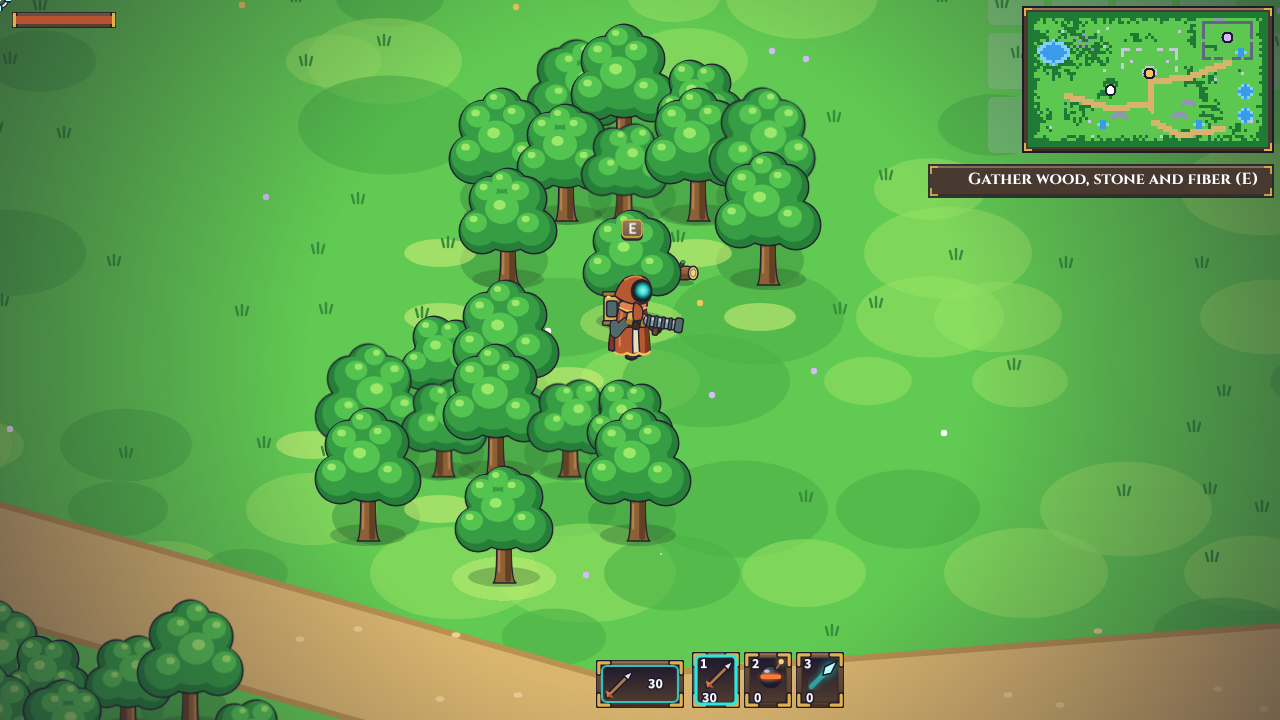
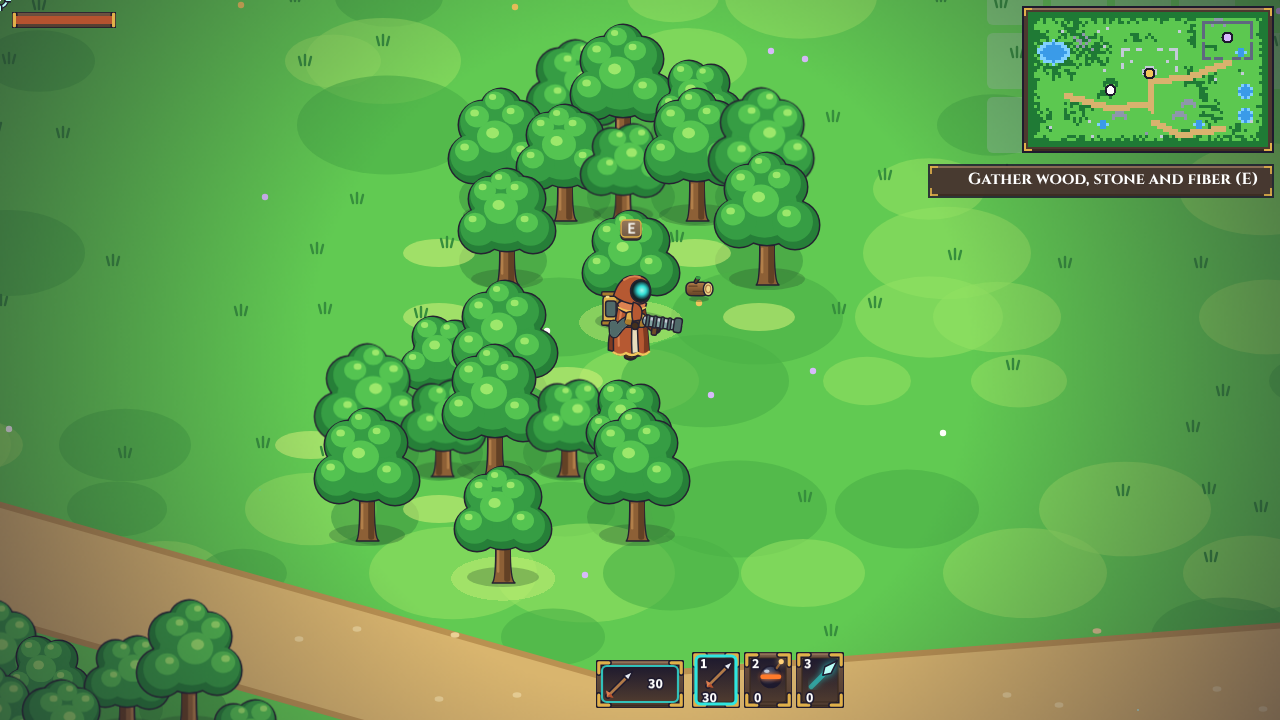
021: review follow-ups
Harvest lays its drop through layItem; shake log cap documented and field
moved; slide depth explained; the mid-slide screenshot freezes the tween once
ui().slideProgress passes 0.35 instead of waiting a fixed time; 03a retaken with
the log further from the trunk.

Claude-Session: https://claude.ai/code/session_019emckfuk4AmLgqPgaDD5WF

diff --git a/src/render/GroundItemView.ts b/src/render/GroundItemView.ts
@@ -17,8 +17,9 @@ export class GroundItemView {
   private readonly scene: Scene;
   /** Where the player stands now, followed by items sliding in. */
   private player = { x: 0, y: 0 };
-  /** Picked-up items still sliding in (for the test hook). */
+  /** Picked-up items still sliding in, and how far in the furthest one is (0 to 1) (for the test hook). */
   sliding = 0;
+  slideProgress = 0;
 
   constructor(scene: Scene) {
     this.scene = scene;
@@ -52,6 +53,8 @@ export class GroundItemView {
   /** Slides an item's image into the player (who may still be moving), shrinking, then removes it. */
   private slide(image: GameObjects.Image): void {
     const from = { x: image.x, y: image.y, scale: image.scaleX };
+    // Over everything standing in the world (the tree it lay behind), just under the pickup sparkle and
+    // particles at worldUi - 1 and the "+1" popup at worldUi.
     image.setDepth(DEPTHS.worldUi - 2);
     this.sliding += 1;
     this.scene.tweens.addCounter({
@@ -61,12 +64,14 @@ export class GroundItemView {
       ease: 'Quad.In',
       onUpdate: (tween) => {
         const t = tween.getValue() ?? 1;
+        this.slideProgress = t;
         const to = { x: this.player.x, y: this.player.y + GROUND_ITEM_LIFT };
         image.setPosition(from.x + (to.x - from.x) * t, from.y + (to.y - from.y) * t);
         image.setScale(from.scale * (1 + (PICKUP_SLIDE.endScale - 1) * t));
       },
       onComplete: () => {
         this.sliding -= 1;
+        if (this.sliding === 0) this.slideProgress = 0;
         image.destroy();
       },
     });

diff --git a/tests/e2e/playtestFixes.spec.ts b/tests/e2e/playtestFixes.spec.ts
@@ -111,7 +111,7 @@ test.describe('review screenshots (021)', () => {
       const n = g?.getState().nodes.find((node) => node.nodeId === 'tree' && node.room === 'overworld');
       if (!g || !h || !n) throw new Error('no game or tree');
       h.walkTo(n.x, n.y + 16);
-      g.drop('wood', n.x + 26, n.y - half - 12);
+      g.drop('wood', n.x + 34, n.y - half - 4);
       return { x: n.x, y: n.y };
     }, nodeDef('tree').feetBox.h / 2);
     // The log lying behind the tree, before the tick that picks it up (for the picture only).
@@ -124,8 +124,9 @@ test.describe('review screenshots (021)', () => {
     expect(s?.events.pickups.map((p) => p.itemId)).toEqual(['wood']);
     expect(s?.player.y).toBeGreaterThan(tree.y);
     await expect.poll(async () => (await ui(page))?.sliding).toBeGreaterThan(0);
-    // Partway in (the slide is slowed 25×), for the picture only.
-    await page.waitForTimeout(2200);
+    // Freeze it partway in (the slide is slowed 25× until then).
+    await expect.poll(async () => (await ui(page))?.slideProgress ?? 0).toBeGreaterThan(0.35);
+    await page.evaluate(() => window.__GAME__?.tweenSpeed(0));
     await page.screenshot({ path: `${SHOTS}/03b-log-sliding-in.png` });
     await page.evaluate(() => window.__GAME__?.tweenSpeed(1));
     await expect.poll(async () => (await ui(page))?.sliding).toBe(0);

diff --git a/src/render/JuiceView.ts b/src/render/JuiceView.ts
@@ -15,7 +15,7 @@ export type ShakeSize = keyof typeof SHAKE;
 
 const SHAKE_ORDER: readonly ShakeSize[] = ['small', 'medium', 'big'];
 
-/** How many recent shakes the log keeps. */
+/** How many recent shakes the log keeps: a cap on a debug-only log the test hook reads (021), not tuning. */
 const SHAKE_LOG_MAX = 50;
 
 export class JuiceView {
@@ -27,6 +27,8 @@ export class JuiceView {
   private shaking: { size: ShakeSize; until: number } | null = null;
   /** Recent damage numbers, so ones landing together stack instead of overlapping. */
   private recent: { x: number; y: number; at: number }[] = [];
+  /** Every shake asked for, oldest first, up to SHAKE_LOG_MAX: the test hook reports it (021). */
+  readonly shakes: ShakeSize[] = [];
 
   constructor(scene: Scene) {
     this.scene = scene;
@@ -34,9 +36,6 @@ export class JuiceView {
     this.particles = new Particles(scene);
     this.reducedMotion = window.matchMedia('(prefers-reduced-motion: reduce)').matches;
   }
-
-  /** Every shake asked for, oldest first, up to SHAKE_LOG_MAX: the test hook reports it (021). */
-  readonly shakes: ShakeSize[] = [];
 
   shake(size: ShakeSize): void {
     this.shakes.push(size);

diff --git a/src/sim/harvest.ts b/src/sim/harvest.ts
@@ -1,6 +1,6 @@
 import { HARVEST_REACH, nodeDef } from '../data/nodes';
 import { FEET_BOX } from '../data/player';
-import { scatterPoint } from './drops';
+import { layItem, scatterPoint } from './drops';
 import type { Command } from './input';
 import { isRolling } from './movement';
 import { nodeRects, useNode, type NodeState } from './nodes';
@@ -82,7 +82,7 @@ function complete(state: SimState, n: NodeState): void {
   const edgeY = Math.min(Math.max(p.y, n.y - def.feetBox.h / 2), n.y + def.feetBox.h / 2);
   for (let i = 0; i < def.yield; i++) {
     const at = scatterPoint(roomById(n.roomId), state.rng, edgeX, edgeY, rects);
-    state.groundItems.push({ id: state.nextGroundItemId++, itemId: def.itemId, roomId: n.roomId, ...at });
+    layItem(state, def.itemId, n.roomId, at.x, at.y);
   }
   state.events.harvests.push({ id: n.id, nodeId: n.nodeId, itemId: def.itemId, x: n.x, y: n.y });
 }

diff --git a/src/render/FeelView.ts b/src/render/FeelView.ts
@@ -76,9 +76,9 @@ export class FeelView {
   private play(sim: SimState, ev: SimEvents): void {
     const j = this.juice;
     const s = this.sound;
+    // No shake on firing (021): too jarring.
     for (const shot of ev.shots) {
       const key = FIRE_SOUNDS[shot.ammoId];
-      // No shake on firing (021): too jarring.
       if (key) s.play(key);
     }
     for (const h of ev.hits) {

diff --git a/src/render/GameScene.ts b/src/render/GameScene.ts
@@ -188,6 +188,7 @@ export class GameScene extends Scene {
       shakes: [...(this.feel?.juice.shakes ?? [])],
       cursor: this.cursorView?.state ?? null,
       sliding: this.groundItemView?.sliding ?? 0,
+      slideProgress: this.groundItemView?.slideProgress ?? 0,
     };
   }
 

diff --git a/src/render/testHook.ts b/src/render/testHook.ts
@@ -54,6 +54,8 @@ export interface UiState {
   cursor: CursorState | null;
   /** Picked-up items still sliding into the player (021). */
   sliding: number;
+  /** How far the latest slide is in, 0 to 1. */
+  slideProgress: number;
 }
 
 declare global {
